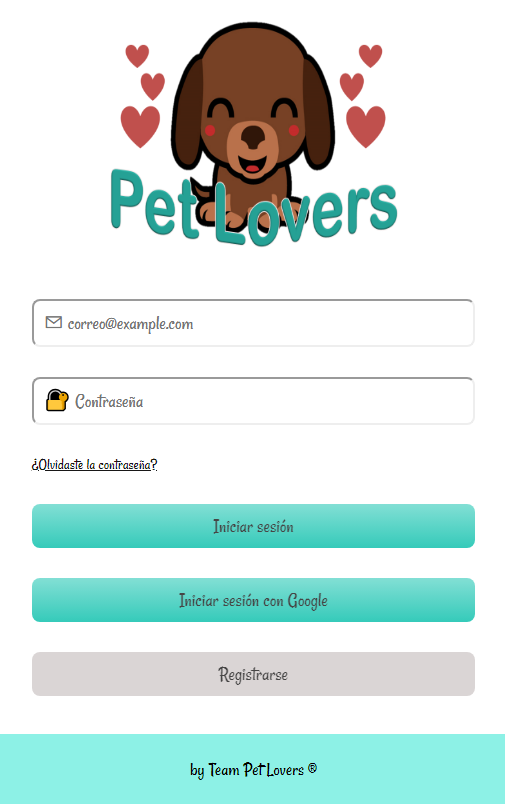
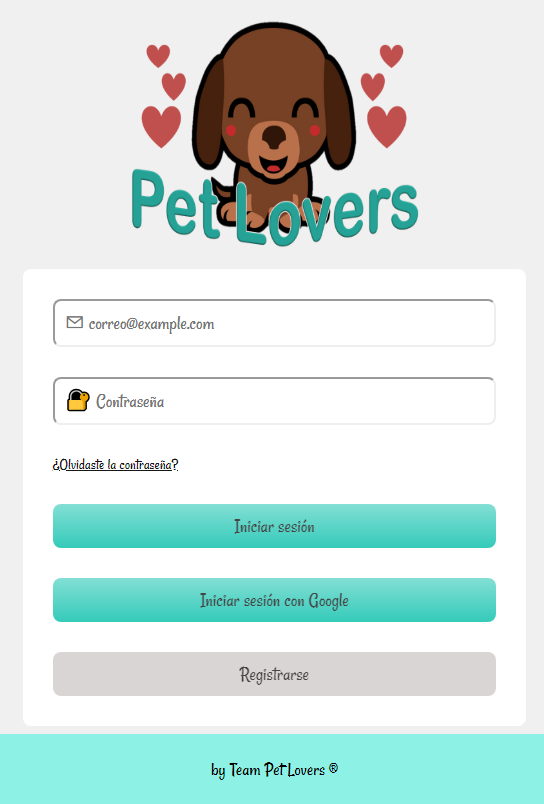
README.md terminado

diff --git a/src/assets/css/style.css b/src/assets/css/style.css
@@ -11,11 +11,11 @@
     grid-gap: .5em;
     grid-template-columns: repeat(3, 1fr);
     grid-template-rows: repeat(3, auto);
-    color: white;
+    background-color: rgb(240, 240, 240);
 }
 
 body{
-    background: #ffffff;
+    background: #e9e9e9;
 }
 
 
@@ -108,6 +108,7 @@ footer{
 footer p{
     font-size: 1.2em;
 }
+
 
 /* Tamaños de pantalla */
 @media (max-width:2560px){

diff --git a/README.md b/README.md
@@ -1,315 +1,41 @@
-# Creando una Red Social
+![Pet_Lover_Logo](src/assets/img/petlogo.png)
 
-## Índice
+<br>
 
-* [Preámbulo](#preámbulo)
-* [Resumen del proyecto](#resumen-del-proyecto)
-* [Objetivos de aprendizaje](#objetivos-de-aprendizaje)
-* [Consideraciones generales](#consideraciones-generales)
-* [Parte obligatoria](#parte-obligatoria)
-* [Hacker Edition](#hacker-edition)
-* [Consideraciones técnicas](#consideraciones-técnicas-front-end)
-* [Contenido de referencia](#pistas-/-tips-/-lecturas-complementarias)
+# **Pet Lovers** red social
 
-***
+## Indice
+* ¡Bienvenido a Pet Lovers!
+* Organización y diseño.
+    * imagen primer boseto
+    * Producto final
+* Próximas mejoras.
 
-## Preámbulo
+<br>
 
-Instagram, Snapchat, Twitter, Facebook, Twitch, Linkedin, etc. Las redes
-sociales han invadido nuestras vidas. Las amamos u odiamos, y muchos no podemos
-vivir sin ellas.
+# ¡Bienvenido a Pet Lovers!
+Una red social gratuita que pretende dar a los amantes de los animales, un lugar dónde compartir sus anecdotas, presumir a sus mascotas y ponerlos en contacto con gente que comparte ese mismo amor, bajo un contexto de respeto y amistad. Puedes abrir una cuenta con tu gmail u otro correo electrónico.
 
-Hay redes sociales de todo tipo y para todo tipo de intereses. Por ejemplo,
-en una ronda de financiamiento con inversionistas, se presentó una red social
-para químicos en la que los usuarios podían publicar artículos sobre sus
-investigaciones, comentar en los artículos de sus colegas, y filtrar artículos
-de acuerdo a determinadas etiquetas o su popularidad, lo más reciente, o lo
-más comentado.
+En un principio sólo teníamos claro que nuestra temática serían los animales, pero las posibilidades eran demasiado amplias, por lo que mediante conversaciones con algunas personas que nos mostraron sus inquietudes respecto a criticas y comentarios desagradables que habían resivido en sus redes sociales habituales. De está manera, desidimos enfocarnos a un público amante de los animales. Al ser esta una red social especifica para amantes de animales, se convierte en un lugar amigable, donde pueden hacer amistades, compartir tips, etc. Las posibilidades son infinitas. 
 
-## Resumen del proyecto
 
-En este proyecto construirás una Red Social sobre lo que decidan tú y tu equipo.
-Podría ser, por ejemplo, sobre alimentación saludable, feminismo, educación,
-salud, energías renovables, amantes de las [empanadas](https://es.wikipedia.org/wiki/Empanada) o de
-los [tacos de canasta](https://es.wikipedia.org/wiki/Taco), etc.
+<br>
 
-Tu Red Social tendrá que permitir a cualquier usuario crear una cuenta de
-acceso y loguearse con ella; crear, editar, borrar y _"likear"_ publicacciones.
+## Organización y diseño
 
-## Objetivos de Aprendizaje
+Como primer paso para llevar a cabo el proyecto, hicimos una planificación en [Trello](https://trello.com/b/A9HUzmeI/red-social), luego se hizo un prototipo de alta fidelidad en figma, con el que testeamos con dos posibles usuarios. 
+(Puedes verlos en el [drive de Pet Lovers](https://drive.google.com/drive/folders/1T-KpzGhfRlJOhdcX90QmoOs4_drX1Wud?usp=sharing)).
 
-El objetivo principal de aprendizaje de este proyecto es construir una
-[Single-page Application (SPA)](https://es.wikipedia.org/wiki/Single-page_application)
-[_responsive_](https://github.com/Laboratoria/curricula-js/tree/master/topics/css/02-responsive)
- (con más de una vista / página) en la que podamos **leer y escribir datos.**
 
-## Consideraciones generales
+### Prototipo hecho en figma
+![Pet Lover Primer Prototipo](src/assets/img/primera-iteracion-pet-lovers-figma.png)
 
-- Este proyecto se debe "resolver" en tríos.
+<br>
 
-- La lógica del proyecto debe estar implementada completamente en JavaScript (ES6+),
-HTML y CSS :smiley:. Para este proyecto no está permitido utilizar
-frameworks o librerías de CSS y JS.
+#### *Después de pedir muchas opiniones, el resultado fue este:*
+### Producto final
+![Pet Lover version final](src/assets/img/print_login_screen.png)
 
-- La división del trabajo debe permitir que todo el equipo
-practique el aprendizaje de todo lo esperado **cada sprint**. _No se dividan el
-trabajo como en una fábrica._
-
-- Trabajen en una sola historia por vez, no pueden avanzar a la siguiente sin
-haber completado la anterior.
-
-Para comenzar tendrás que hacer un _fork_ y _clonar_ este
-repositorio.
-
-## Parte obligatoria
-
-### General
-
-Este proyecto no incluye un _boilerplate_, así es que tendrás que definir la
-estructura de carpetas y escribir tus propias Pruebas Unitarias (tests). Para
-hacerlo, puedes guiarte de los proyectos anteriores.
-
-### Definición del producto
-
-En el `README.md` cuéntanos brevemente cómo descubriste las necesidades de los
-usuarios y cómo llegaste a la definición final de tu producto. Comparte fotos de
-entrevistas (si las tienes), cuestionarios y tus sketches/(bocetos).
-
-Es importante que detalles:
-
-* Quiénes son los principales usuarios de producto.
-* Qué problema resuelve el producto / para qué le servirá a estos usuarios.
-
-### Historias de usuario
-
-Una vez que entiendas las necesidades de tus usuarixs, escribe las Historias de
-Usuario que representen todo lo que necesitan hacer/ver en la Red Social.
-
-Cada una de tus Historias de Usuario debe tener:
-- **Criterios de Aceptación:** todo lo que debe ocurrir para satisfacer las
-  necesidades del usuario.
-
-- **Definición de terminado:** todos los aspectos técnicos que deben cumplirse
-para que, como equipo, sepan que esa historia está terminada y lista
-para publicarse. **Todas** tus Historias de Usuario (salvo excepciones), deben
-incluir estos aspectos en su Definición de Terminado (más todas las que
-  necesiten agregar):
-
-  * Debe ser una SPA.
-  * Debe ser _responsive_.
-  * Debes haber recibido _code review_ de al menos una compañera de otro equipo.
-  * Haces _test_ unitarios y, además, has testeado tu producto manualmente.
-  * Hiciste _pruebas_ de usabilidad e incorporaste el _feedback_ del usuario.
-  * Desplegaste tu aplicación y has etiquetado tu versión (git tag).
-
-### Diseño de la Interfaz de Usuario (prototipo de baja fidelidad)
-
-Debes definir cuál será el flujo que seguirá el usuario dentro de tu producto y
-con eso deberás diseñar la Interfaz de Usuario (UI por sus siglas en inglés) de
-esta red social que siga este flujo.
-Este diseño debe representar la solución que se implementará finalmente en
-código.
-
-### Responsive
-
-Debe verse bien en dispositivos de pantallas grandes
-(computadoras/es, laptops, etc.) y pequeñas (tablets, celulares, etc.). Te
-sugerimos seguir la técnica de `mobile first` (más detalles sobre esta técnica
-al final).
-
-### Pruebas unitarias (unit tests)
-
-Los tests unitarios deben cubrir un mínimo del 70% de _statements_, _functions_,
-_lines_, y _branches_.
-
-### Implementación de la Interfaz de Usuario (UI y comportamiento de Interfaz de Usuario)
-
-Estas son consideraciones para que escribas las Definiciones de Terminado de
-tus H.U.:
-
-#### Creación de cuenta de usuario e inicio de sesión
-
-* Login con Firebase:
-  - Para el login y las publicaciones en el muro puedes utilizar [Firebase](https://firebase.google.com/products/database/)
-  - Creación de cuenta de acceso y autenticación con cuenta de correo y
-    contraseña, y con cuenta de Google.
-* Validaciones:
-  - La aplicación solo permitirá el acceso a usuarios con cuentas válidas.
-  - No pueden haber usuarios repetidos.
-  - La cuenta de usuario debe ser un correo electrónico válido.
-  - Lo que se escriba en el campo (_input_) de contraseña debe ser secreto.
-* Comportamiento:
-  - Al enviarse un formulario de registro o inicio de sesión, debe validarse.
-  - En caso haya errores, el sistema debe mostrar mensajes de error para
-    ayudar al usuario a corregirlos.
-  - Al recargar la aplicación, se debe verificar si el usuario está
-    logueado antes de mostrarle el contenido.
-
-
-#### Muro/timeline de la red social
-
-* Validaciones:
-  - Al apretar el botón de publicar, debe validar que exista contenido en
-  el _input_.
-* Comportamiento:
-  - Poder publicar un _post_.
-  - Poder dar y quitar _like_ a una publicación.
-  - Llevar un conteo de los _likes_.
-  - Poder eliminar un post específico.
-  - Pedir confirmación antes de eliminar un _post_.
-  - Al dar _click_ para editar un _post_, debe cambiar el texto por un _input_
-    que permita editar el texto y luego guardar los cambios.
-  - Al guardar los cambios debe cambiar de vuelta a un texto normal pero con la
-    información editada.
-  - Al recargar la página debo de poder ver los textos editados.
-
-### Hacker edition
-
-* Permite crear posts con imágenes.
-* Permite buscar usuarios, agregar y eliminar "amigos".
-* Permite definir la privacidad de los _posts_ (público o solamente para amigos).
-* Permite ver su muro de cualquier usuario "no-amigo" (solamente los
-  posts _públicos_).
-* Permite comentar o responder una publicación.
-* Permite editar perfil.
-
-### Consideraciones técnicas Front-end
-
-El corazón de este proyecto incluye:
-
-* Separar la manipulación del DOM de la lógica (Separación de responsabilidades).
-* Contar con multiples vistas para esto tu aplicacion debera ser una
- [Single Page Application (SPA)](https://es.wikipedia.org/wiki/Single-page_application)
-* Que el sitio sea responsive, ya dicho.
-* Alterar y persistir datos. Los datos que agregues o modifiques deberán
-  persistir a lo largo de la aplicación, te recomendamos que uses
-  [Firebase](https://firebase.google.com/).
-
-Además, podrías agregar algunas tareas nuevas de acuerdo a tus decisiones:
-
-* Recuerda que no hay un setup de **tests** definido, dependerá de
-  la estructura de tu proyecto también, pero algo que no debes de olvidar es
-  pensar en éstas pruebas, incluso te podrían ayudar a definir la estructura y
-  nomenclatura de tu lógica.
-
-### Consideraciones técnicas UX
-
-Desde el punto de vista de UX, deberás:
-
-* Hacer al menos 2 o 3 entrevistas con usuarios.
-* Hacer un  prototipo de baja fidelidad.
-* Asegurarte de que la implementación en código siga los lineamientos del
-  diseño.
-* Hacer sesiones de testing con el producto en HTML.
-
-## Entrega
-
-El proyecto será _entregado_ subiendo tu código a GitHub (`commit`/`push`) y la
-interfaz será desplegada usando GitHub pages u otro servicio de hosting que
-puedas haber encontrado en el camino.
-
-## Evaluación
-
-Recuerda revisar la [rúbrica](https://docs.google.com/spreadsheets/u/1/d/e/2PACX-1vRktPN4ilZtkRN5tUb3DVhgeihwlzk63_-JI3moA-bXpKDbHDioAK2H3qbrwWNb0Ql4wX22Tgv7-PDv/pubhtml)
-para ver la descripción detallada de cada habilidad y cada nivel. Esta es una
-lista de todas las habilidades involucradas en este proyecto y que evaluaremos
-cuando lo completes:
-
-### Habilidades Blandas/Socioemocionales
-
-| Habilidad |
-|-----------|
-| Planificación y organización |
-| Autoaprendizaje |
-| Solución de Problemas |
-| Dar y recibir feedback |
-| Adaptabilidad |
-| Trabajo en equipo |
-| Responsabilidad |
-| Comunicación eficaz |
-| Presentaciones |
-
-
-### Habilidades Técnicas, Front-end
-
-| Habilidad |
-|-----------|
-| **JavaScript** |
-| Estilo |
-| Nomenclatura/semántica |
-| Funciones/modularidad |
-| Estructuras de datos |
-| Tests |
-| **HTML** |
-| Validación |
-| Estilo |
-| Semántica |
-| SEO |
-| **CSS** |
-| DRY |
-| Responsive |
-| **SCM** |
-| Git |
-| GitHub |
-| **CS** |
-| Lógica |
-| Arquitectura |
-
-### Habilidades Técnicas, UX
-
-| Habilidad |
-|-----------|
-| User Centricity |
-| Visual Desing |
-
-***
-
-## Pistas / Tips / Lecturas complementarias
-
-### Mobile first
-
-El concepto de [_mobile first_](https://www.mediaclick.es/blog/diseno-web-responsive-design-y-la-importancia-del-mobile-first/)
-hace referencia a un proceso de diseño y desarrollo donde partimos de cómo se ve
-y cómo funciona la aplicación en un dispositivo móvil primero, y más adelante se
-ve como adaptar la aplicación a pantallas progresivamente grandes y
-características específicas del entorno desktop. Esto es en contraposición al
-modelo tradicional, donde primero se diseñaban los websites (o webapps) para
-desktop y después se trataba de _arrugar_ el diseño para que entre en pantallas
-más chicas. La clave acá es asegurarse de que desde el principio diseñan usando
-la vista _responsive_ de las herramientas de desarrollador (developer tools) del
-navegador. De esa forma, partimos de cómo se ve y comporta la aplicación en una
-pantalla y entorno móvil.
-
-### Múltiples vistas
-
-En proyectos anteriores nuestras aplicaciones habían estado compuestas de una
-sola _vista_ principal (una sóla _página_). En este proyecto se introduce la
-necesidad de tener que dividir nuestra interfaz en varias _vistas_ o _páginas_
-y ofrecer una manera de navegar entre estas vistas. Este problema se puede
-afrontar de muchas maneras: con archivos HTML independientes (cada uno con su
-URL) y links tradicionales, manteniendo estado en memoria y rederizando
-condicionalmente (sin refrescar la página), [manipulando el historial del
-navegador](https://developer.mozilla.org/es/docs/DOM/Manipulando_el_historial_del_navegador)
-con [`window.history`](https://developer.mozilla.org/es/docs/Web/API/Window/history).
-En este proyecto te invitamos a explorar opciones y decidir una opción
-de implementación.
-
-### Escritura de datos
-
-En los proyectos anteriores hemos consumido (leído) datos, pero todavía no
-habíamos escrito datos (salvar cambios, crear datos, borrar, ...). En este
-proyecto tendrás que crear (salvar) nuevos datos, así como leer, actualizar y
-modificar datos existentes. Estos datos se podrán guardar de forma remota
-usando [Firebase](https://firebase.google.com/).
-
-Otras:
-
-* [Modulos: Export](https://developer.mozilla.org/es/docs/Web/JavaScript/Referencia/Sentencias/export)
-* [Modulos: Import](https://developer.mozilla.org/es/docs/Web/JavaScript/Referencia/Sentencias/import)
-* [Diseño web, responsive design y la importancia del mobile first - Media Click](https://www.mediaclick.es/blog/diseno-web-responsive-design-y-la-importancia-del-mobile-first/)
-* [Mobile First: el enfoque actual del diseño web móvil - 1and1](https://www.1and1.es/digitalguide/paginas-web/diseno-web/mobile-first-la-nueva-tendencia-del-diseno-web/)
-* [Mobile First - desarrolloweb.com](https://desarrolloweb.com/articulos/mobile-first-responsive.html)
-* [Mobile First - ZURB](https://zurb.com/word/mobile-first)
-* [Mobile First Is NOT Mobile Only - Nielsen Norman Group](https://www.nngroup.com/articles/mobile-first-not-mobile-only/)
-
-***
+## Próximas mejoras a la aplicación.
+La aplicación pasó por varias iteraciones en su proceso de creación, y queremos que siga mejorando para dar a nuestros usuarios una red social donde puedan sentirse comodos y felices.
+Seguiremos trabajando para que puedas reaccionar y comentar los post de tus amigos; y hablar con ellos por chat.
